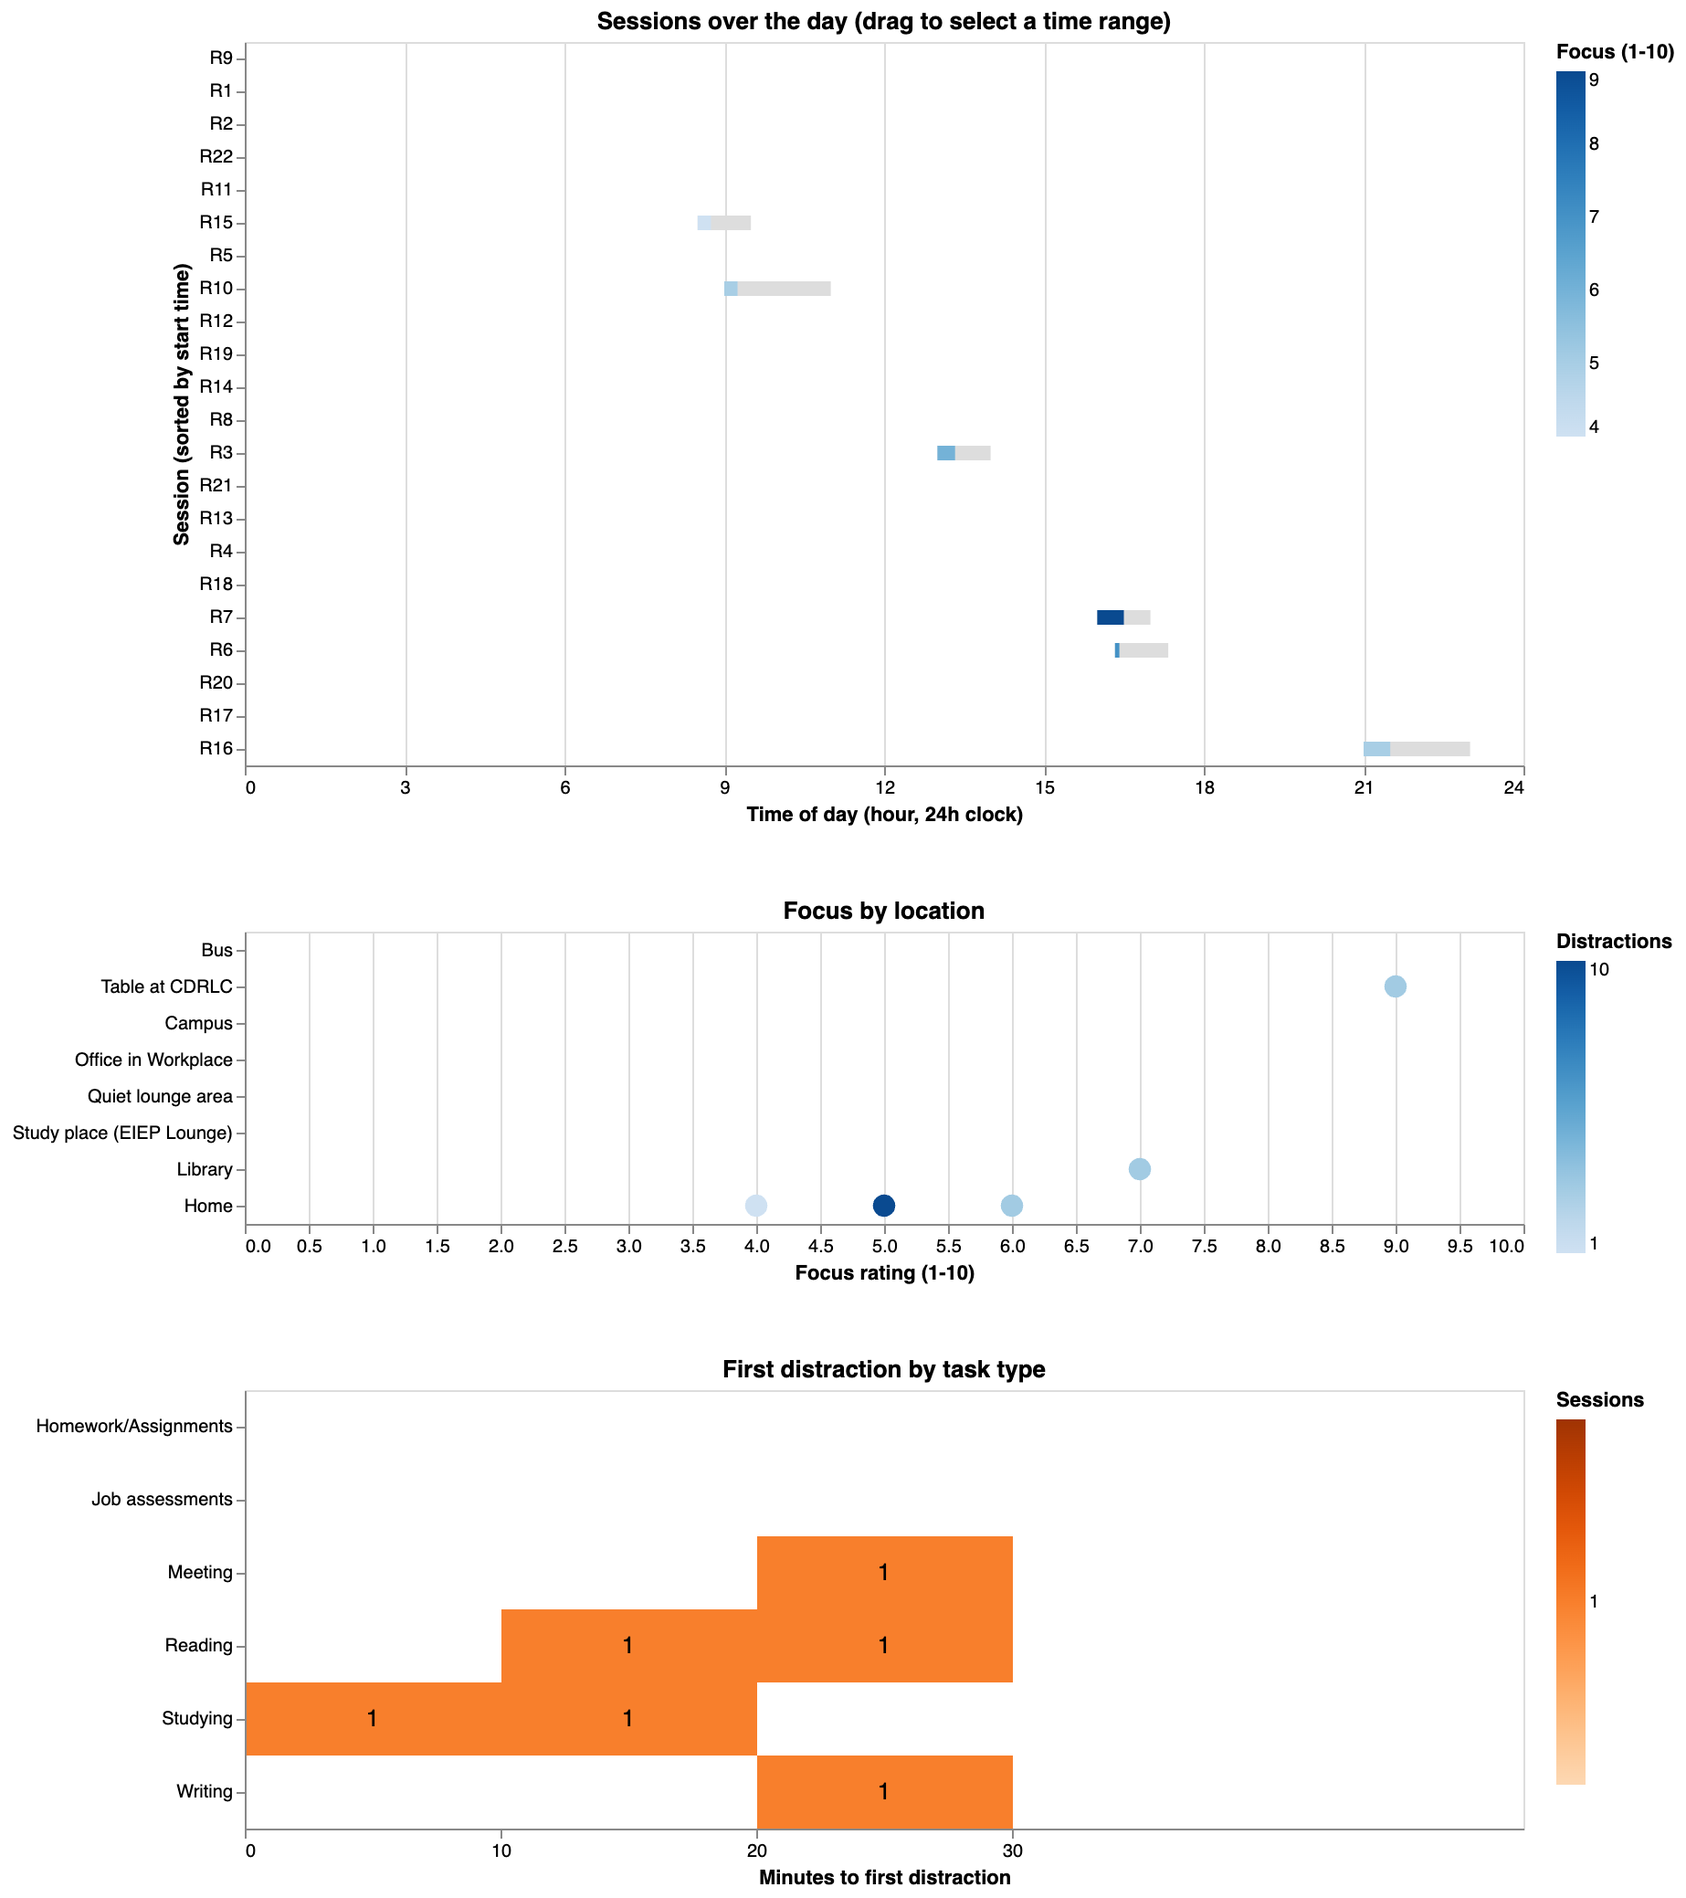
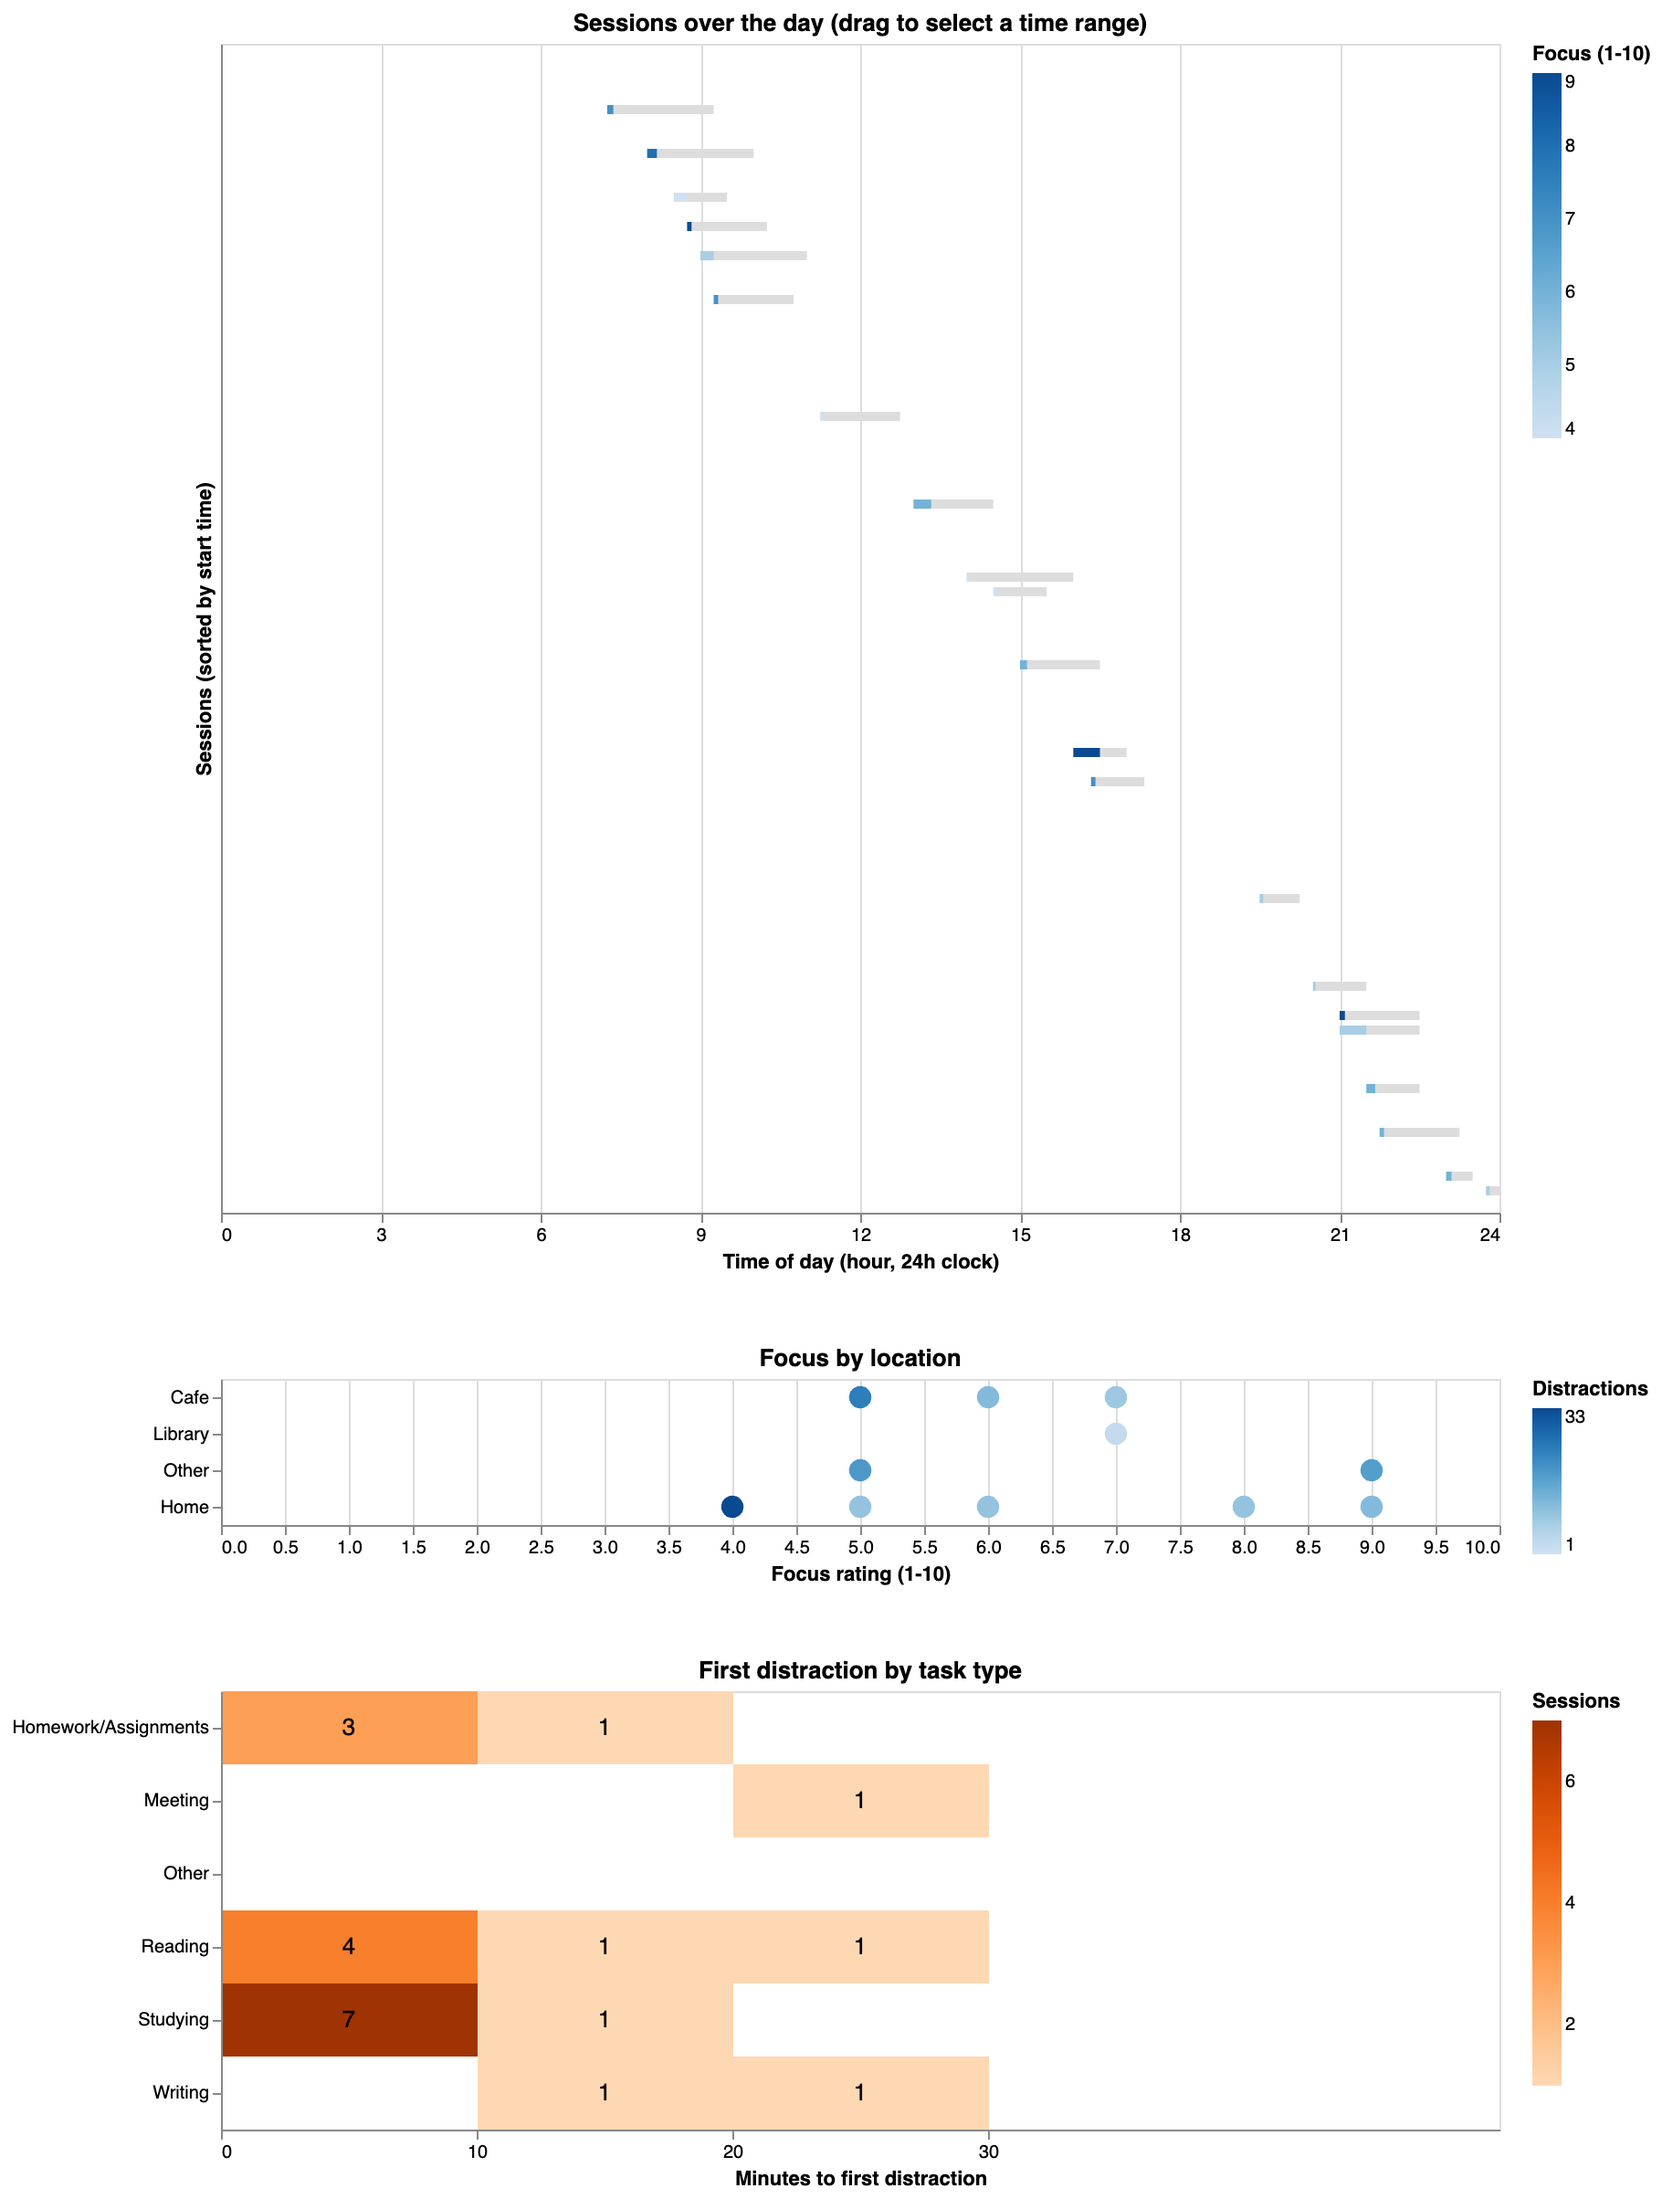
Update Task 4 and 5 for the cleaned data (80 sessions), new screenshots

diff --git a/Assignment2.md b/Assignment2.md
@@ -63,15 +63,15 @@ The exploration is in [`notebooks/Task3_EDA.ipynb`](notebooks/Task3_EDA.ipynb), 
 
 ## Task 4: Implement visualization alternatives
 
-We made three different charts in Vega-Lite (`vis/index.html` and `vis/charts.js`). Each one is for a different question, and we made them look different on purpose so we weren't just making the same chart three times.
+We made three different charts in Vega-Lite (`vis/index.html` and `vis/charts.js`). Each one is for a different question, and we made them look different on purpose so we weren't just making the same chart three times. We first built them on the raw form responses (22 sessions at the time), pulling numbers out of answers like "90min" right in the chart code. After Task 2 we switched them to `data/cleaned_data.csv`, which has 80 sessions, and the screenshots below are from that version. Having almost four times as much data changed how well each chart worked.
 
 ### 1. Focus by location (dot plot)
 
 <img src="vis/screenshots/chart1_location.png" width="700" alt="Focus by location dot plot" />
 
-This one comes from our location sketch in Assignment 1. It's for the question of how focus and distractions change depending on where you work. It uses `location`, `focus`, and `distractions`. Every session is a circle. The row shows the location, how far right it is shows the focus rating, and a darker circle means more distractions. We wanted to see every single session instead of an average, because most places only have one or two sessions.
+This one comes from our location sketch in Assignment 1. It's for the question of how focus and distractions change depending on where you work. It uses `location`, `focus`, and `distractions`. Every session is a circle. The row shows the location, how far right it is shows the focus rating, and a darker circle means more distractions. We wanted to see every single session instead of an average.
 
-The good part is you can tell right away how uneven our data is. Home and the library have a bunch of sessions and every other place has one. The bad part is that if two sessions at the same place have the same focus rating, the circles sit right on top of each other. Home has 12 sessions but it looks like 5 circles. Our hand sketch didn't have this problem because we drew the circles next to each other. The colors are also off because one person put "20+" distractions, so every other circle looks almost the same light blue. We're keeping this chart but it needs fixing. The circles need to be spread out so you can see all of them, and the colors need to be redone.
+With the small raw data this kind of worked, but with 80 sessions it mostly doesn't. The cleaning grouped locations into just four (Home 34, Other 22, Library 17, Cafe 7), and focus is a whole number from 1 to 10, so tons of sessions land on the exact same spot. 80 sessions show up as only 25 circles, and Home's 34 sessions look like 7. Our hand sketch didn't have this problem because we drew the circles next to each other. The colors are also hard to read because a few sessions had 30 to 50 distractions, so most circles look like the same light blue. We're keeping the idea of showing every session by location, but the circles need to be spread out or stacked so you can actually count them.
 
 ### 2. First distraction by task type (heatmap)
 
@@ -79,7 +79,7 @@ The good part is you can tell right away how uneven our data is. Home and the li
 
 This is based on our heatmap sketch, but we put task type on the rows instead of difficulty. It's for the question of whether people get distracted sooner on some kinds of tasks. It uses `task_type` and `first_distraction` (in minutes). Each box is a 10-minute chunk for one task type, and a darker box means more sessions landed there. We also put the number in each box because it was hard to tell the exact count from the color.
 
-We tried this because it shows the whole spread for a task type in one row, and an average can't do that. It works for studying, since there are enough sessions to see they go anywhere from under 10 minutes to over 40. It doesn't really work for the other task types. They only have one to four sessions each, so the rows are mostly empty, and a box with a "1" in it looks like it means more than it does. The one session with no distractions isn't on here at all because it doesn't have a time. We'd keep this for studying sessions, but with this much data it's not great for comparing task types.
+This chart got a lot better with more data. With the raw data most task types had one or two sessions, so the rows were mostly empty. Now every task type has at least a few sessions, and the pattern is easy to see: 50 of the 77 sessions that had a distraction got distracted in the first 10 minutes, and studying is the clearest with 22 of 33 in that first box. The "Other" row still only has 3 sessions, so we don't read much into it. The 3 sessions with no distractions aren't on here because they don't have a time. We're keeping this one.
 
 ### 3. Sessions over the day (timeline)
 
@@ -87,7 +87,7 @@ We tried this because it shows the whole spread for a task type in one row, and 
 
 This one came from our time-of-day timeline sketch. It's for a question we didn't really look at in Assignment 1, which is whether the time of day changes how long someone stays focused. It uses `start_time`, `planned` duration, `first_distraction`, and `focus`. Each session is a bar placed at the time of day it started. The grey bar is how long they planned to work, the blue part is how long until the first distraction, and darker blue means they rated their focus higher.
 
-We tried this because the other two charts don't show time at all. It also lets you compare the first distraction to the planned length for every session at once, and that part worked well. For most sessions the first distraction happens in the first third to half of the planned time. You can also see when people actually work. Most sessions start between 7 AM and 5 PM, and there's nothing between about 1 AM and 5 AM. The problem is that short sessions are tiny when the axis is 24 hours long, so a 20-minute session is almost impossible to see. The session with no distractions is just a grey bar, which could look like the data is missing. We're keeping this one and we think it's the best of the three, but we need to change the scale so the short sessions are easier to read.
+We tried this because the other two charts don't show time at all, and it lets you compare the first distraction to the planned length for every session at once. That part worked well. Every distracted session got its first distraction within the first half of what they planned, and most within the first third. You can also see when people actually work. 50 of the 80 sessions start between 7 AM and 5 PM, 20 start at 8 PM or later, and only one starts before 5 AM. There are some problems though. With 80 sessions the rows got really thin, so we had to hide the session labels. Short sessions are tiny on a 24-hour axis. Two late sessions run past midnight and get cut off at the edge. Also, 20 sessions didn't have a usable planned time, so the cleaning filled those in with the median, which means some grey bars are estimates. We think this is the most promising of the three, but it needs a better scale and a way to handle the late-night sessions.
 
 ## Task 5: Interaction and multiple views
 
@@ -95,7 +95,7 @@ After Task 4 we had three separate charts that each showed one thing. The proble
 
 <img src="vis/screenshots/linked_all.png" width="700" alt="All three linked charts with nothing selected" />
 
-**Selecting a time range (linked views).** You can drag across the timeline to pick a part of the day. The location chart fades out every session that isn't in that range, and the heatmap recounts using only the sessions you picked. This lets someone ask things like "what do evening sessions look like?" and see the answer in all three charts at once. In the screenshot below we selected about 3 PM to 10 PM. The location chart shows those sessions were mostly at home and the library, and the heatmap shows only the first distractions from those sessions. Double-clicking the timeline clears the selection.
+**Selecting a time range (linked views).** You can drag across the timeline to pick a part of the day. The location chart fades out every session that isn't in that range, and the heatmap recounts using only the sessions you picked. This lets someone ask things like "what do evening sessions look like?" and see the answer in all three charts at once. In the screenshot below we selected about 3 PM to 10 PM, which is about 37 of the 80 sessions. The location chart shows those sessions were mostly at home and the library, and the heatmap shows that even in the evening, studying sessions still mostly got distracted in the first 10 minutes. Double-clicking the timeline clears the selection.
 
 <img src="vis/screenshots/linked_evening_selected.png" width="700" alt="Evening sessions selected on the timeline, other charts updated" />
 
@@ -103,13 +103,13 @@ We made the location chart fade instead of hiding the other sessions because you
 
 In Task 4 we said the heatmap wasn't great on its own because most task types only have a few sessions. We kept it on the page anyway because it's more useful once it's linked. Instead of trying to compare every task type at once, you can pick a time range or a noise level and see when the first distraction happened for just those sessions.
 
-**Filtering by noise level.** There's a dropdown under the charts for Very Quiet, Quiet, or Moderate, and picking one filters all three charts to those sessions. We added this because noise was one of our original questions and none of the three charts shows noise on its own. This way we didn't need a fourth chart for it. Below is what it looks like with Moderate selected.
+**Filtering by noise level.** There's a dropdown under the charts for Very Quiet, Quiet, Moderate, or Noisy, and picking one filters all three charts to those sessions. Noisy only has 3 sessions, so it's not worth much on its own. We added this because noise was one of our original questions and none of the three charts shows noise on its own. This way we didn't need a fourth chart for it. Below is what it looks like with Moderate selected. There are 21 moderate sessions, and about half of them were at home.
 
 <img src="vis/screenshots/linked_noise_moderate.png" width="700" alt="Charts filtered to moderate noise sessions" />
 
 **Hovering.** Every chart also shows the details of a session when you hover over it, like the task, start time, and focus rating. We kept this because the charts only use a few columns each, and sometimes you want to check the rest without leaving the chart.
 
-**What we decided not to add.** We thought about a dropdown to change what the colors mean (focus, distractions, or effectiveness), but we couldn't think of a question it would help answer, so we left it out. We also didn't add zooming, because there are only 22 sessions and everything already fits on the screen.
+**What we decided not to add.** We thought about a dropdown to change what the colors mean (focus, distractions, or effectiveness), but we couldn't think of a question it would help answer, so we left it out. We also didn't add zooming. All 80 sessions still fit on one screen, but the timeline rows got pretty thin once we switched to the cleaned data, so this might be worth adding later.
 
 **A problem we ran into.** The first time we added the noise filter, the rows in each chart disappeared when they had no sessions, so the charts kept changing size and the title of the top chart got cut off. We fixed it by keeping every session, location, and task type on the axes all the time, even when they're empty. It also turned out better this way, because now you can see which places and tasks have nothing at that noise level instead of them just vanishing.
 
